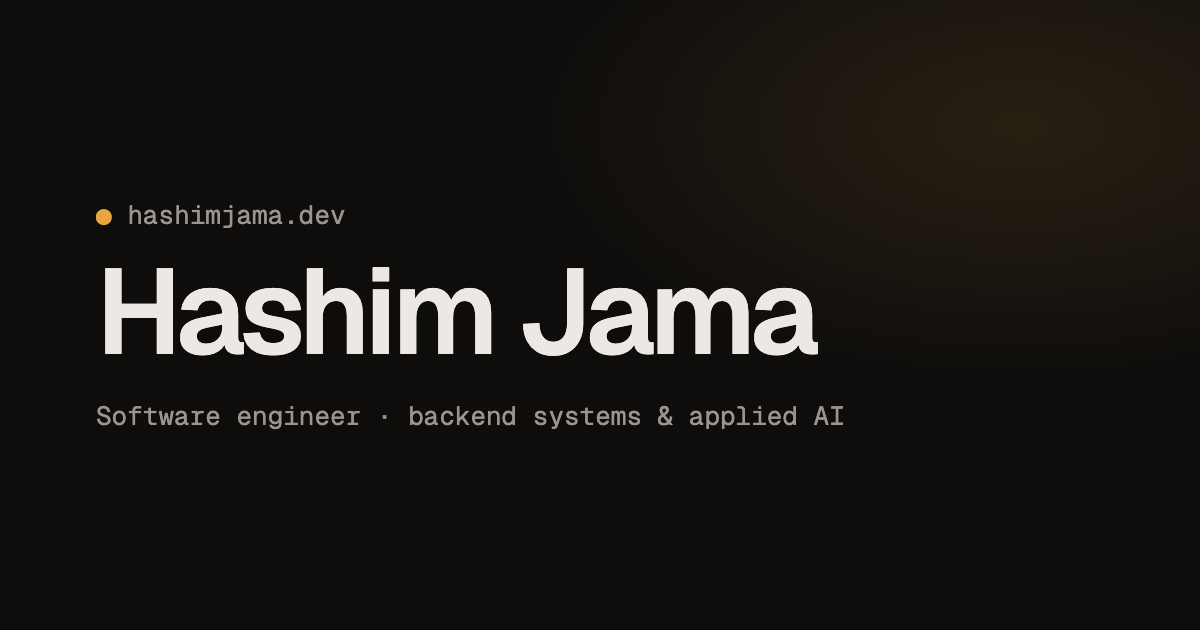
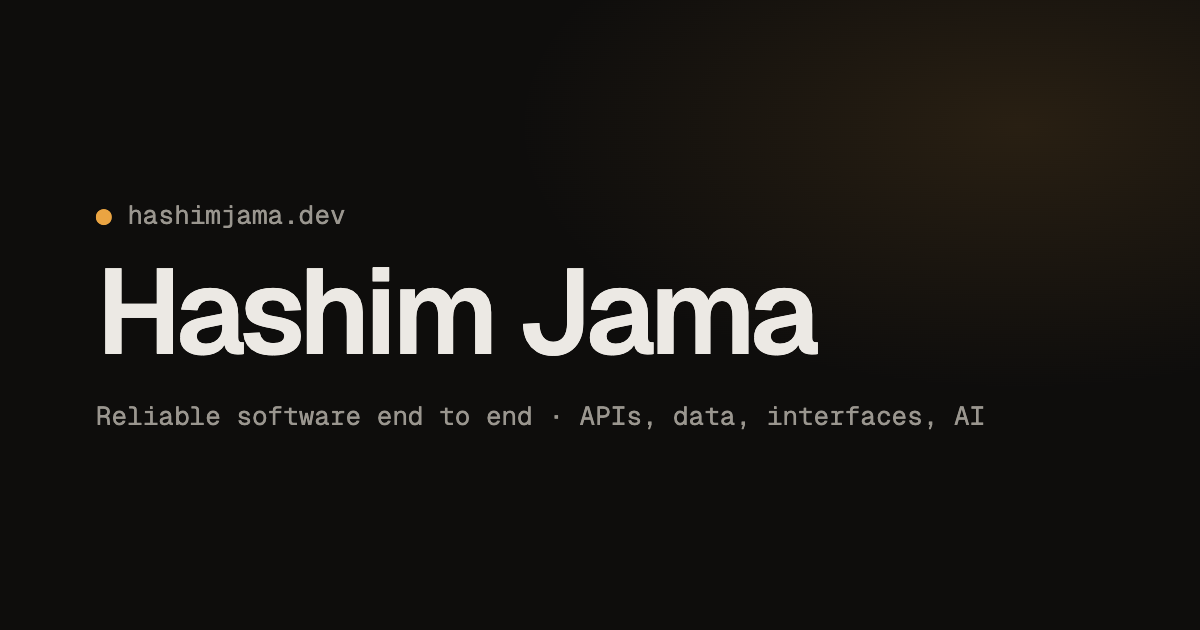
Broaden positioning across backend, AI, data, and frontend work
Hero and about now describe end to end work without naming job titles.
Skills regrouped into six areas (adds Next.js, Astro, Tailwind, Docker,
CI/CD, Vercel, Supabase; keeps every previous item). Title, meta, and
share image updated to match. Based on a sample of 25 Canadian entry
level postings: 92% ask for frontend, data, CI/CD, or cloud.

diff --git a/index.html b/index.html
@@ -3,14 +3,14 @@
 <head>
     <meta charset="UTF-8">
     <meta name="viewport" content="width=device-width, initial-scale=1.0">
-    <title>Hashim Jama | Software Engineer</title>
-    <meta name="description" content="Hashim Jama is a software engineer focused on backend systems and applied AI. Projects, experience, and contact details.">
+    <title>Hashim Jama</title>
+    <meta name="description" content="Hashim Jama builds reliable software end to end: APIs, data, interfaces, and applied AI. Projects, experience, and contact details.">
     <link rel="canonical" href="https://hashimjama.dev/">
     <meta name="theme-color" content="#0e0d0c">
     <meta property="og:type" content="website">
     <meta property="og:url" content="https://hashimjama.dev/">
-    <meta property="og:title" content="Hashim Jama | Software Engineer">
-    <meta property="og:description" content="Software engineer focused on backend systems and applied AI.">
+    <meta property="og:title" content="Hashim Jama">
+    <meta property="og:description" content="Reliable software end to end: APIs, data, interfaces, and applied AI.">
     <meta property="og:image" content="https://hashimjama.dev/images/og.png">
     <meta property="og:image:width" content="1200">
     <meta property="og:image:height" content="630">
@@ -58,8 +58,8 @@
             <div class="container hero-grid">
                 <div class="hero-copy">
                     <h1 class="hero-in" style="--i: 0">Hashim Jama</h1>
-                    <p class="lede hero-in" style="--i: 1">Software engineer focused on backend systems and applied AI. I build the services that put LLMs into real products: APIs, data pipelines, and the reliability work that keeps them up.</p>
-                    <p class="status hero-in" style="--i: 2"><span class="status-dot" aria-hidden="true"></span><span>Open to software engineering roles<br>Previously Software Engineering Intern at myAIpathway</span></p>
+                    <p class="lede hero-in" style="--i: 1">I build reliable software end to end, from databases and APIs to the interfaces and models on top of them. Most of my work is backend and applied AI, and I'm just as at home shaping data or shipping a frontend.</p>
+                    <p class="status hero-in" style="--i: 2"><span class="status-dot" aria-hidden="true"></span><span>Open to new roles<br>Previously Software Engineering Intern at myAIpathway</span></p>
                     <div class="hero-actions hero-in" style="--i: 3">
                         <a href="#work" class="btn btn-primary">See my work</a>
                         <a href="#contact" class="btn btn-ghost">Get in touch</a>
@@ -85,14 +85,16 @@
             <div class="container split">
                 <h2 class="section-label wipe">About</h2>
                 <div>
-                    <p class="about-text">I'm a Computer Science graduate from Wilfrid Laurier University. Most of my work sits between backend systems and applied AI: chat backends that keep context, retrieval pipelines, and the caching and retry logic that makes them dependable.</p>
-                    <p class="about-text">I like taking a project from a rough idea to something people actually use, and I'm looking for a software engineering role where I can keep doing that.</p>
+                    <p class="about-text">I'm a Computer Science graduate from Wilfrid Laurier University. During my internship I integrated LLMs into a Node.js backend, and on my own I've built a realtime study app with Next.js and Supabase, a Transformer written from scratch, and a scikit-learn model that forecasts housing prices.</p>
+                    <p class="about-text">I care most about the parts that make software last: clear data models, tested and containerized services, and interfaces that are easy to use. I'm happy wherever that work lives, whether it's an API, a data pipeline, or a model.</p>
 
                     <dl class="skills">
-                        <div><dt>Languages</dt><dd>Python, Java, JavaScript, TypeScript, SQL, C#, C++, C</dd></div>
-                        <div><dt>Backend</dt><dd>Node.js, Express, FastAPI, Django, Spring Boot, PostgreSQL, MySQL, MongoDB, Redis</dd></div>
-                        <div><dt>AI / ML</dt><dd>LLMs, RAG, NLP, TensorFlow, scikit-learn, pandas, NumPy</dd></div>
-                        <div><dt>Frontend &amp; tools</dt><dd>React, AngularJS, Streamlit, Git, Tableau, Power BI</dd></div>
+                        <div><dt>Languages</dt><dd>Python, Java, TypeScript, JavaScript, SQL, C#, C++, C</dd></div>
+                        <div><dt>Backend &amp; APIs</dt><dd>Node.js, Express, FastAPI, Django, Spring Boot, REST APIs, WebSockets</dd></div>
+                        <div><dt>Frontend</dt><dd>React, Next.js, Astro, Tailwind CSS, HTML/CSS, AngularJS</dd></div>
+                        <div><dt>Data &amp; analytics</dt><dd>PostgreSQL, MySQL, MongoDB, Redis, pandas, NumPy, Tableau, Power BI, Streamlit</dd></div>
+                        <div><dt>AI &amp; ML</dt><dd>LLM integration, RAG, NLP, TensorFlow, scikit-learn</dd></div>
+                        <div><dt>Deployment &amp; tooling</dt><dd>Docker, CI/CD pipelines, Git, Vercel, Supabase, GitHub Pages, Locust</dd></div>
                     </dl>
                 </div>
             </div>
@@ -263,7 +265,7 @@
         <section id="contact" class="section contact">
             <div class="container">
                 <h2 class="section-label wipe">Contact</h2>
-                <p class="contact-lead">I'm looking for software engineering roles. The fastest way to reach me is email.</p>
+                <p class="contact-lead">I'm open to new roles. The fastest way to reach me is email.</p>
                 <div class="contact-row">
                     <a class="email" href="mailto:hashimabdigani2@gmail.com">hashimabdigani2@gmail.com</a>
                     <button class="btn btn-ghost copy" type="button" data-copy="hashimabdigani2@gmail.com">Copy</button>
